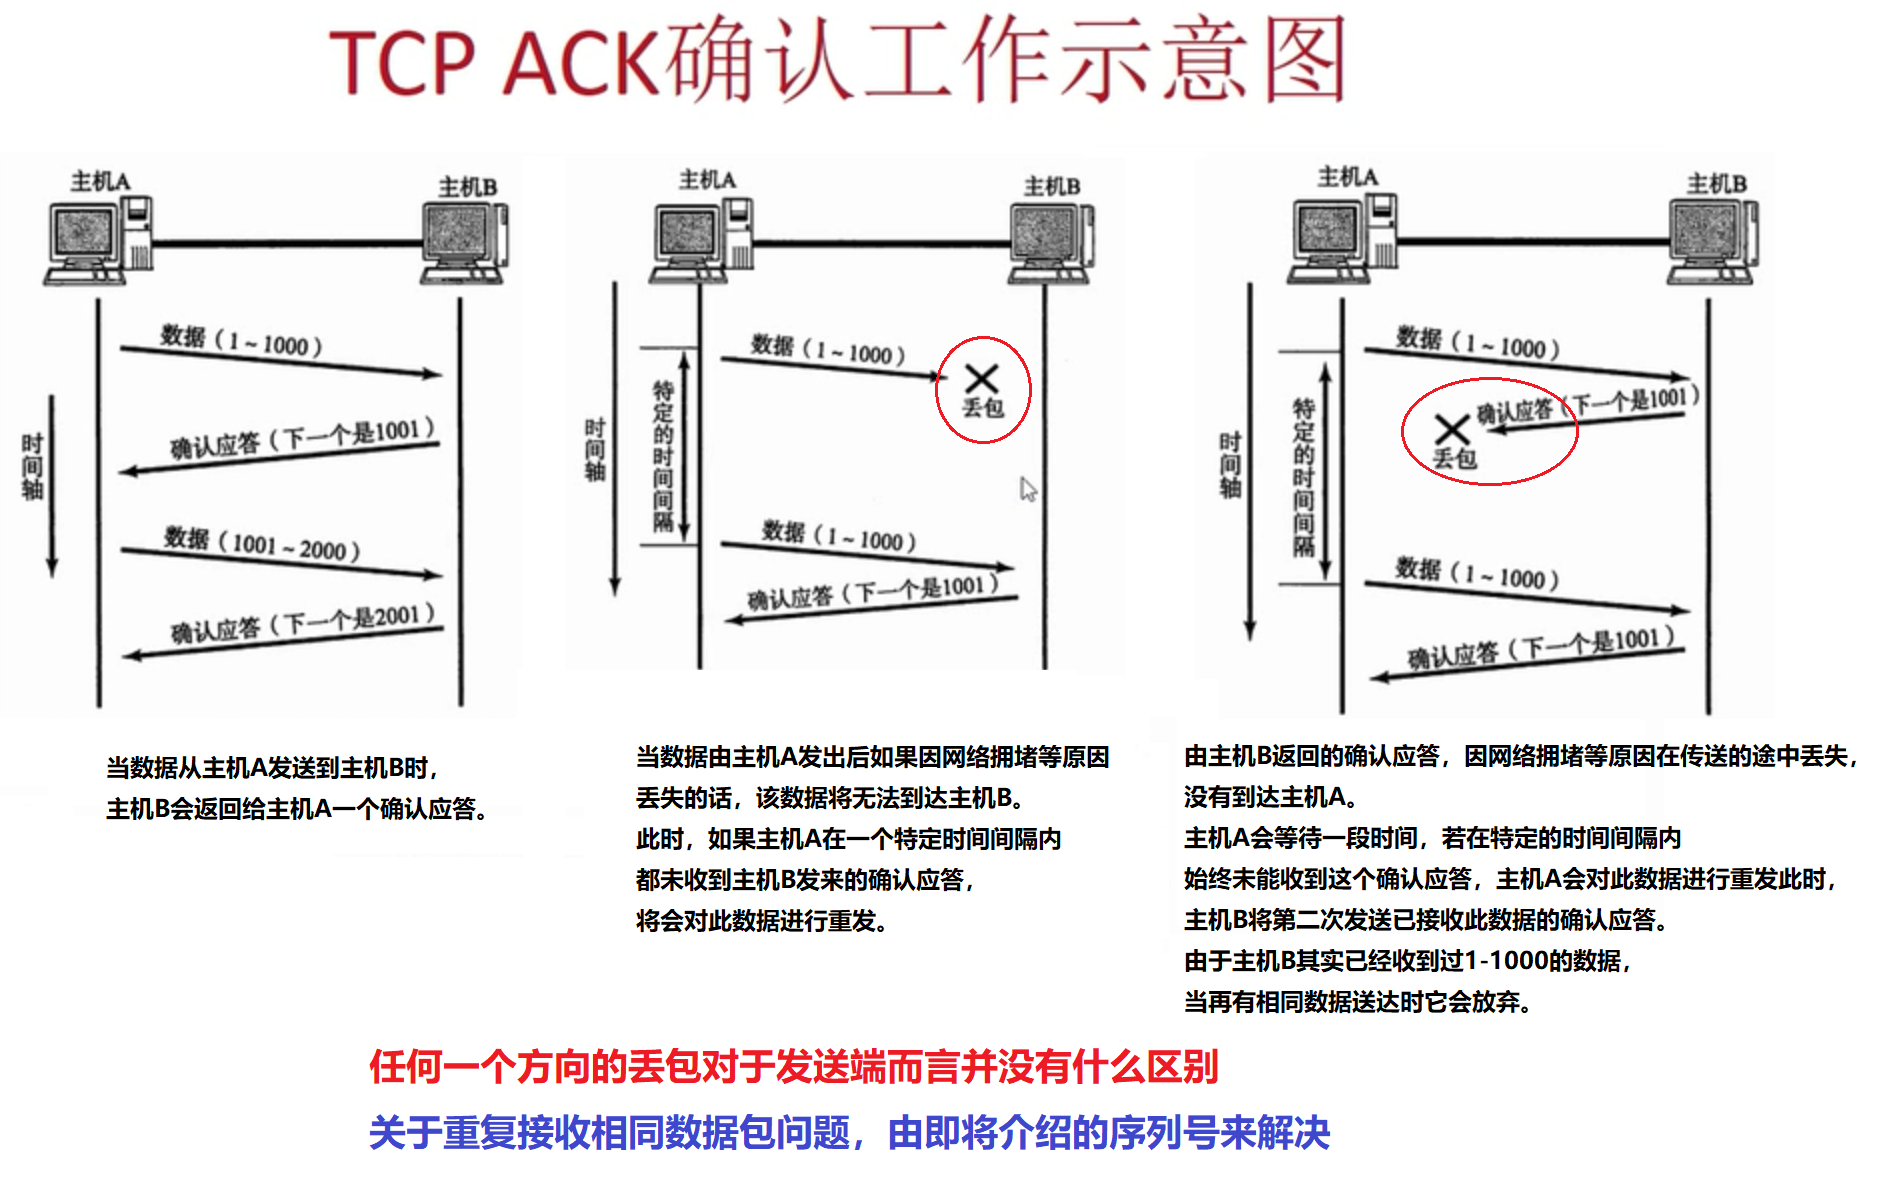
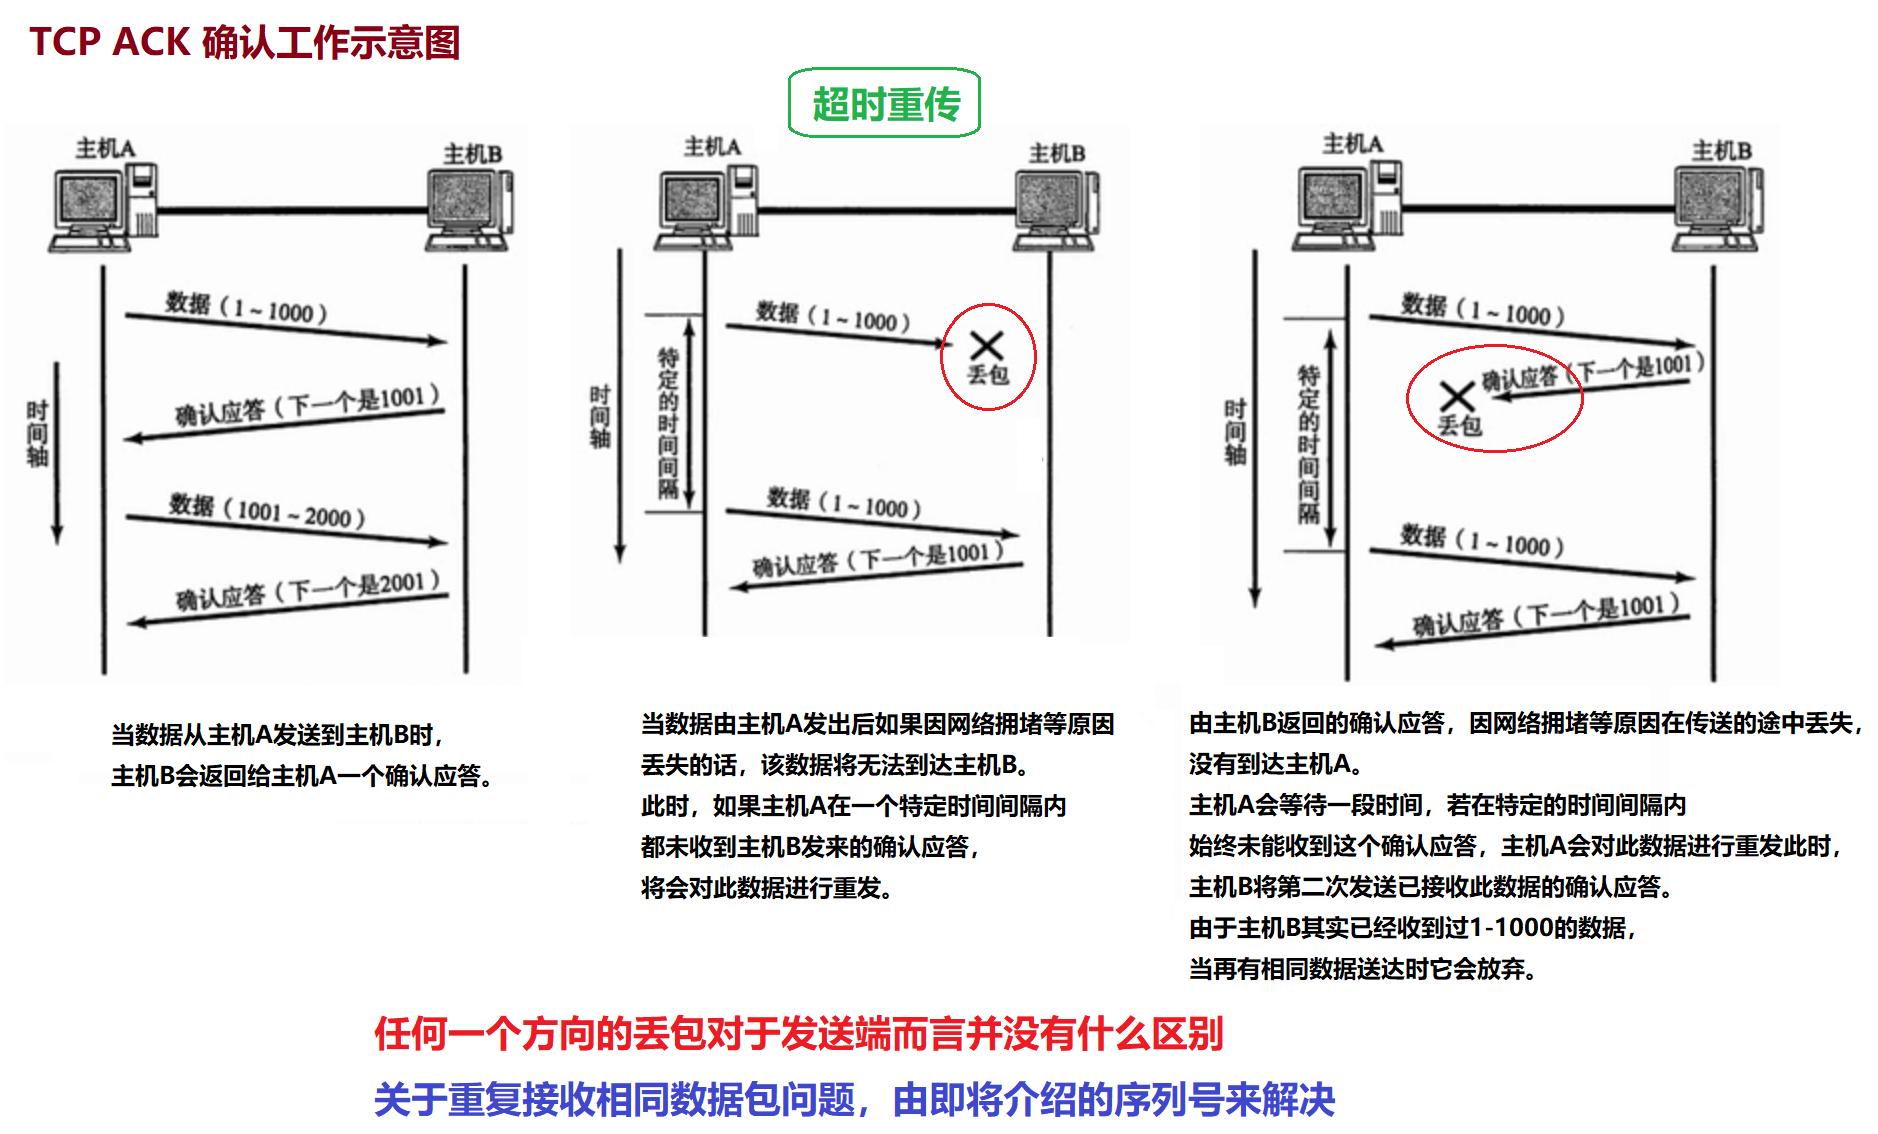
TCP note

diff --git a/计算机网络/课/TCP协议.md b/计算机网络/课/TCP协议.md
@@ -55,13 +55,13 @@ TCP 会在数据通信之前，
 
 [link 08:45](https://www.bilibili.com/video/BV17b411W78h?p=11)
 
-<img src="img/3handshake.png" style="width:300px"></img>
+<img src="img/3handshake.png" style="width:350px"></img>
 
 
 ### **三次握手 四次挥手**
 [link 09:25](https://www.bilibili.com/video/BV17b411W78h?p=11)
 
-<img src="img/3次握手4次挥手.png" style="width:400px"></img>
+<img src="img/3次握手4次挥手.png" style="width:450px"></img>
 
 
 
@@ -80,7 +80,9 @@ TCP 会在数据通信之前，
 
 
 [link 12:56](https://www.bilibili.com/video/BV17b411W78h?p=11)
-<img src="img/ACK确认丢包.png" style="width:800px"></img>
+
+**TCP ACK 确认工作示意图：**
+<img src="img/ACK确认丢包.png" style="width:950px"></img>
 
 
 
@@ -95,20 +97,271 @@ TCP 会在数据通信之前，
 为此，就必须人一种机制，<u>它能够识别 **是否已經接收数据**，又能够 **判断是否需要接收**。</u>
 
 上述这些确认应答处理、重发控制以及重复控制等功能都可以通过序列号实现。
-序列号是 **按顺序给发送数据的每一个 ==字节== 都标上号码的编号**。
-<u>接收端通过查询接收数据 TCP 首部中的序列号和数据的长度，
-将自己 **下一步应该接收的序列号作为确认应答** 返送回去。</u>
-就这样，通过序列号和确认应答号 TCP 可以实现可靠传输。
+序列号是 **按顺序给发送 ==数据的每一个字节== 都标上号码的编号**。
 
 
 [link 17:56](https://www.bilibili.com/video/BV17b411W78h?p=11)
 
 
 
+<img src="img/序列号_.png" style="width:500px"></img>
+
+
+
+<u>接收端通过查询接收数据 TCP 首部中的序列号和数据的长度，
+将自己 **下一步应该接收的序列号作为确认应答** 返送回去。</u>[(19:23)](https://www.bilibili.com/video/BV17b411W78h?p=11)
+就这样，通过序列号和确认应答号 TCP 可以实现可靠传输。
+[link 20:38](https://www.bilibili.com/video/BV17b411W78h?p=11)
+<img src="img/序列号示意图_.png" style="width:800px"></img>
+
+**序列号初始化 ( ISN )：** 
+[link 21:57](https://www.bilibili.com/video/BV17b411W78h?p=11)
+三次握手数据包、ISN 序列号
+<img src="img/序列号初始化.png" style="width:500px"></img>
+
+**序列号增长：** 
+[link 26:00](https://www.bilibili.com/video/BV17b411W78h?p=11)
+黑客攻击 TCP 方法
+<img src="img/序列号增长.png" style="width:500px"></img>
+
+<br>
+
+## 4.TCP 以段(**MSS**)为单位发送数据
+
+### 最大消息长度 MSS
+[link 30:51](https://www.bilibili.com/video/BV17b411W78h?p=11)
+在建立 TCP 连接的同时，也可以确定发送数据包的单位，
+这个单位也可以称其为 “ 最大消息长度 ”（ MSS: MaximunSegment Size)。
+最理想的情况是，最大消息长度正好是 IP 中不会被分片处理的最大数据长度（一般为 1460=1500-20-20)
+
+TCP 在传送大量数据时，是以 MSS 的大小将数据进行<u>分割发送</u>。
+进行重发时也是以 MSS 为单位。
+
+<img src="img/TCP_MSS切割.png" style="width:700px"></img>
+
+
+### MSS 协商
+
+[link 35:19](https://www.bilibili.com/video/BV17b411W78h?p=11)
+MSS 是在 <u>==**三次握手**==</u> 的时候，在两端主机之间被计算得出两端的主机在发出建立连接的请求时，
+会在 TCP 首部中写人 MSS 选项，告诉对方自己的接口能够适应的 MSS 的大小。
+然后会 <u>**在两者之间选择一个 ==较小的值== 投人使用**</u>
+
+**MSS 协商示意图：**
+<img src="img/MSS协商.png" style="width:700px"></img>
+
+
+<br>
+
+
+
+## 5.滑动窗口技术简介 (1)
+
+### 停止等待
+[link 40:37](https://www.bilibili.com/video/BV17b411W78h?p=11)
+TCP 以一个段为单位，每发一个段进行一次确认应答的处理
+(<u>**发一个包等 ACK 确认，发一个包等 ACK 确认**</u>)。
+这样的传输方式有一个缺点：**包的往返时间越长通信性能就越低**。
+
+如下图。
+<img src="img/停止等待.png" style="width:500px"></img>
+
+
+## 5.滑动窗口技术简介 (2)
+
+
+### 滑动窗口
+
+[link 41:29](https://www.bilibili.com/video/BV17b411W78h?p=11)
+为解決停止等待这个问题，TCP 引入了窗口这个概念。
+即使在往返时间较长的情況下，它也能控制网络性能的下降。
+
+如下图所示，确认应答不再是以每一个分段，
+而是以更大的单位进行确认时，转发时间将会被大幅度的缩短。
+也就是说，发送端主机，在发送了一个段之后不必要一直等待确认应答，
+而是继续发送窗口大小就是指无需等待确认应答而可以继续发送数据的最大值。
+下图中，窗口大小为4个段。
+<img src="img/滑动窗口.png" style="width:600px"></img>
+
+**==窗口大小其实就是你可以 <u>不用等我确认(ACK)</u>，能一口气发给我接收的数据大小。==**
+但是你发到我的窗口值了就不能再发了，要等我这边处理完缓存里面的数据了，回给你 ACK 确认之后才能再发。
+
+**注意：**
+==窗口值是需要接收方告诉发送发的，是由接收方决定的。
+因为窗口等同于接收方的缓存能力。==
+<br>
+
+
+## 5.滑动窗口技术简介 (3)
+[link 44:50](https://www.bilibili.com/video/BV17b411W78h?p=11)
+
+
+如右图所示，发送数据中高亮圈起的部分正是前面所提到的窗口。
+**在这个窗口内的数据即便没有收到确认应答也可以继续发送。**
+
+此外，从该窗口中能看到的数据因其某种数据己在传输中丢失，所以发送端无法收到确认应答，这种情况也需进行重发。
+为此，**发送端主机在等到确认应答返回之前，必须在缓冲区中保留这部分数据**。
+
+在滑动窗口以外的部分包括 尚未发送的数据、已经确认对端已收到的数据。
+**当数据发出后若如期收到确认应答就可以不用再进行重发，此时数据就可以从缓存区清除。**
+收到确认应答的情况下，将窗口滑动到确认应答中的序列号的位置。
+这样可以 **<u>顺序地将多个段同时发送提高通信性能</u>**。
+这种机制也被称为滑动窗口控制。
+
+==**窗口是接收方的流控机制。**==
+
+
+<img src="img/滑动窗口2.png" style="width:600px"></img>
+
+<br>
+
+
+## 6.窗口控制与重发控制 (1)
+
+[link 49:48](https://www.bilibili.com/video/BV17b411W78h?p=11)
+在使用窗口控制中，如果出现段丢失该怎么办？
+
+- **①** 首先，我们先考虑 ACK 确认应答未能返回的情况。
+
+在这种情况下，**<u>==数据已经到达对端==，是不需要再进行重发的</u>**。
+然而，在没有使用窗口控制的时候，没有收到确认应答的数据都会被重发。
+而使用了窗口控制，就如下图所示，**<u>某些 ACK 确认应答即便丢失也无需重发</u>**。
+
+<img src="img/窗口控制与重发控制.png" style="width:600px"></img>
+
+
+## 6.窗口控制与重发控制 (2)
+
+
+### 超时重传
+[link 53:37](https://www.bilibili.com/video/BV17b411W78h?p=11)
+<img src="img/超时重传_.png" style="width:500px"></img>
+
+
+
+### 快速重传（重复 ACK）
+[link 51:23](https://www.bilibili.com/video/BV17b411W78h?p=11)
+- **②** 其次，我们来考虑一下某个报文段丢失的情况。
+
+如下图所示，接收主机如果收到一个自己应该接收的序号以外的数据时，会针对当前为止收到数据返回确认应答。
+如下图所示。当某一报文段丢失后，发送端会一直收到序号为1001的确认应答，这个确认应答好像在提醒发送端“我想接收的是从1001开始的数据”。
+因此，在窗口比较大，又出现报文段丢失的情況下，同一个序号的确认应答将会被重复不断地返回。而发送端主机如果连续3次收到同一个确认应答，就会将其所对应的数据进行童发。
+这种机制比之前提到的超时管理更加高效，因此也被称作 **高速重发控制**。
+
+<img src="img/窗口控制与重发控制2_
+.png" style="width:950px"></img>
+<br>
+
+### 滑动窗口工作流程
+
+一共有 17 张工作流程图，点进链接看讲解 [link 01:39~21:32](https://www.bilibili.com/video/BV17b411W78h?p=12)
+<img src="img/滑动窗口工作流程.png" style="width:900px"></img>
+
+
+<br>
+
+
+
+## 7.流控制（1)
+
+
+[link 27:02](https://www.bilibili.com/video/BV17b411W78h?p=12)
+
+（下面这段文字在上面的 **滑动窗口工作流程** 中有体现）
+
+发送端根据自己的实际情况发送数据。
+但是，接收端可能收到的是一个毫无关系的数据包又可能会在处理其他问题上花费一些时间。
+因此在为这个数据包做其他处理时会耗费一些时间，甚至在高负荷的情况下无法接收任何数据。
+如此一来，如果接收端将本应该接收的数据丢弃的话，就又会触发重发机制，从而导致网络流量的无端浪费。
+
+为了防止这种现象的发生，TCP 提供一种机制
+可以让 <u>**发送端根据接收端的实际接收能力控制发送的数据量**</u>。
+这就是所谓的 <u>**流控制**（接收端的流控）</u>。
+它的具体操作是，接收端主机向发送端主机通知自己可以接收数据的大小，
+于是发送端会发送不超过这个限度的数据。
+该大小限度就被称作窗口大小。
+在上一节中所介绍的窗口大小的值就是由接收端主机决定的 
+
+TCP 首部中，专门有一个字段用来通知窗口大小。
+接收主机将自己可以接收的缓冲区大小（窗口值）放入这个字段中通知给发送端。
+**<u>窗口值越大，说明网络的吞吐量越高。</u>**
+
+不过，<u>接收端的这个缓冲区一且面临数据溢出时，
+窗口大小的值也会随之被设置为一个更小的值通知给发送端，从而控制数据发送量</u>
+（接收方缓存满了，告诉发起方不要发太多）。
+也就是说，**<u>发送端主机会根据接收端主机的指示，对发送数据的量进行控制。
+这也就形成了一个完整的TCP流控制（流量控制）。</u>**
+
+
+**注意：**
+**==TCP 是双向的，两个方向上都有流量，都有流控，都有滑动窗口。==**
+
+<br>
+
+
+### 窗口探测 and 窗口更新通知
+[link 30:09](https://www.bilibili.com/video/BV17b411W78h?p=12)
+- **窗口更新通知：**
+
+当接收方长时间处理缓存中的数据，返回 ACK 的时候缓存满了窗口值为 0。
+当处理一段时间之后缓存有空出空间了，需要通知发送方，这时候由于不能再继续返回 ACK 了，
+就需要返回一个窗口更新通知告知发送方，可以继续发送数据了。
+
+- **窗口探测：**
+
+当接收方因为处理缓存时间过长，缓存一直处于满的状态时，或由于丢包问题，没有及时返回 ACK 或 窗口更新通知时，
+**发送方**会发出 窗口探测 来询问接收方是否可以发送数据。
+
+<br>
+
+
+
+如右图所示，当接收端收到从3001号开始的数据段后其缓冲区即满，
+不得不暂时停止接收数据（窗口为0)。
+之后，在收到发送窗口更新通知后通信才得以继续进行。
+
+如果这个窗口的更新通知在传送途中丢失，可能会导致无法继续通信。
+为避免此类问题的发生，发送端主机会时不时的发送一个叫做窗口探测的数据段，
+此数据段仅含个字节以获取最新的窗口大小信息。
+
+<img src="img/窗口探测yu窗口更新通知.png" style="width:700px"></img>
 
 
 
 
+
+## 8.拥塞控制 (1)
+[link 35:51](https://www.bilibili.com/video/BV17b411W78h?p=12)
+有了 TCP 的窗口控制，
+收发主机之间即使不再以一个数据段为单位发送确认应答，也能够连续发送大量数据包。
+然而，如果 <u>在通信刚开始时就发送大量数据。也可能会引发其他问题</u>。
+
+一般来说，计算机网络都处在一个共享的环境。
+因此也有可能会因为其他主机之间的通信使得网络拥堵。
+<u>在网络出现拥堵时，如果突然发送一个较大量的数据，极有可能会导致整个网络的瘫痪</u>。
+
+TCP 为了防止该间问题的出现，在通信一开始时就会通过一个叫做 <u>**慢启动**</u> 的算法得出的数值，
+对发送数据量进行控制。
+
+
+### 慢启动
+[link 37:14](https://www.bilibili.com/video/BV17b411W78h?p=12)
+
+首先，为了在发送端调节所要发送数据的量，定义了一个叫做 “拥塞窗口” 的概念。
+于是在慢启动的时候，将这个拥塞窗口的大小设置为 1 个数据段（1MSS）发送数据，
+之后每收到一次确认应答（ACK）, 拥塞窗口的值就加 1。
+在发送数据包时，将拥塞窗口的大小与接收端主机通知的窗口大小做比较，
+然后按照它们当中较小那个值，发送比其还要小的数据量。
+如果重发采用超时机制，那么拥塞窗口的初始值可以设置为 1 以后再进行慢启动修正。
+
+有了上述这些机制，
+就可以有效地减少通信开始时连续发包，导致的网络拥堵，
+还可以避免网络拥塞情况的发生
+
+
+<img src="img/慢启动.png" style="width:600px"></img>
+
+看到  37:36
 
 
 <br>
